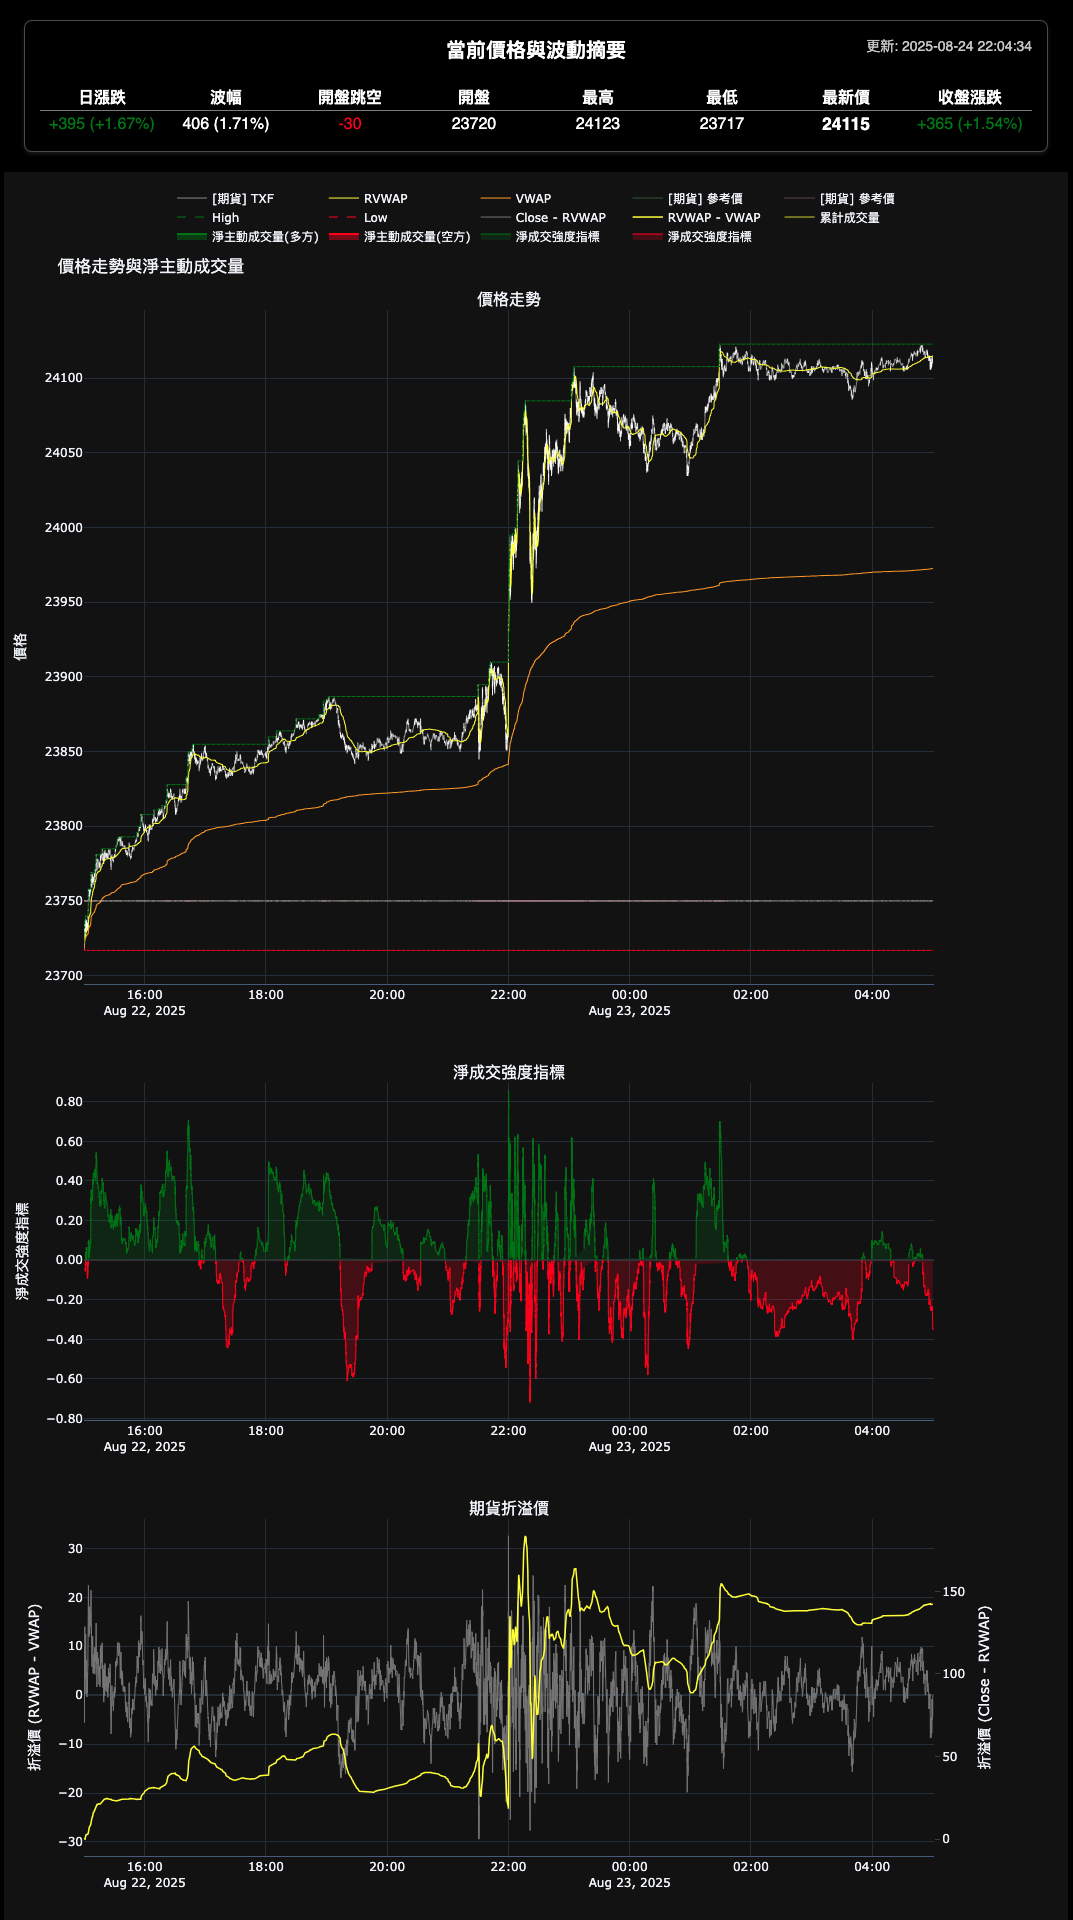
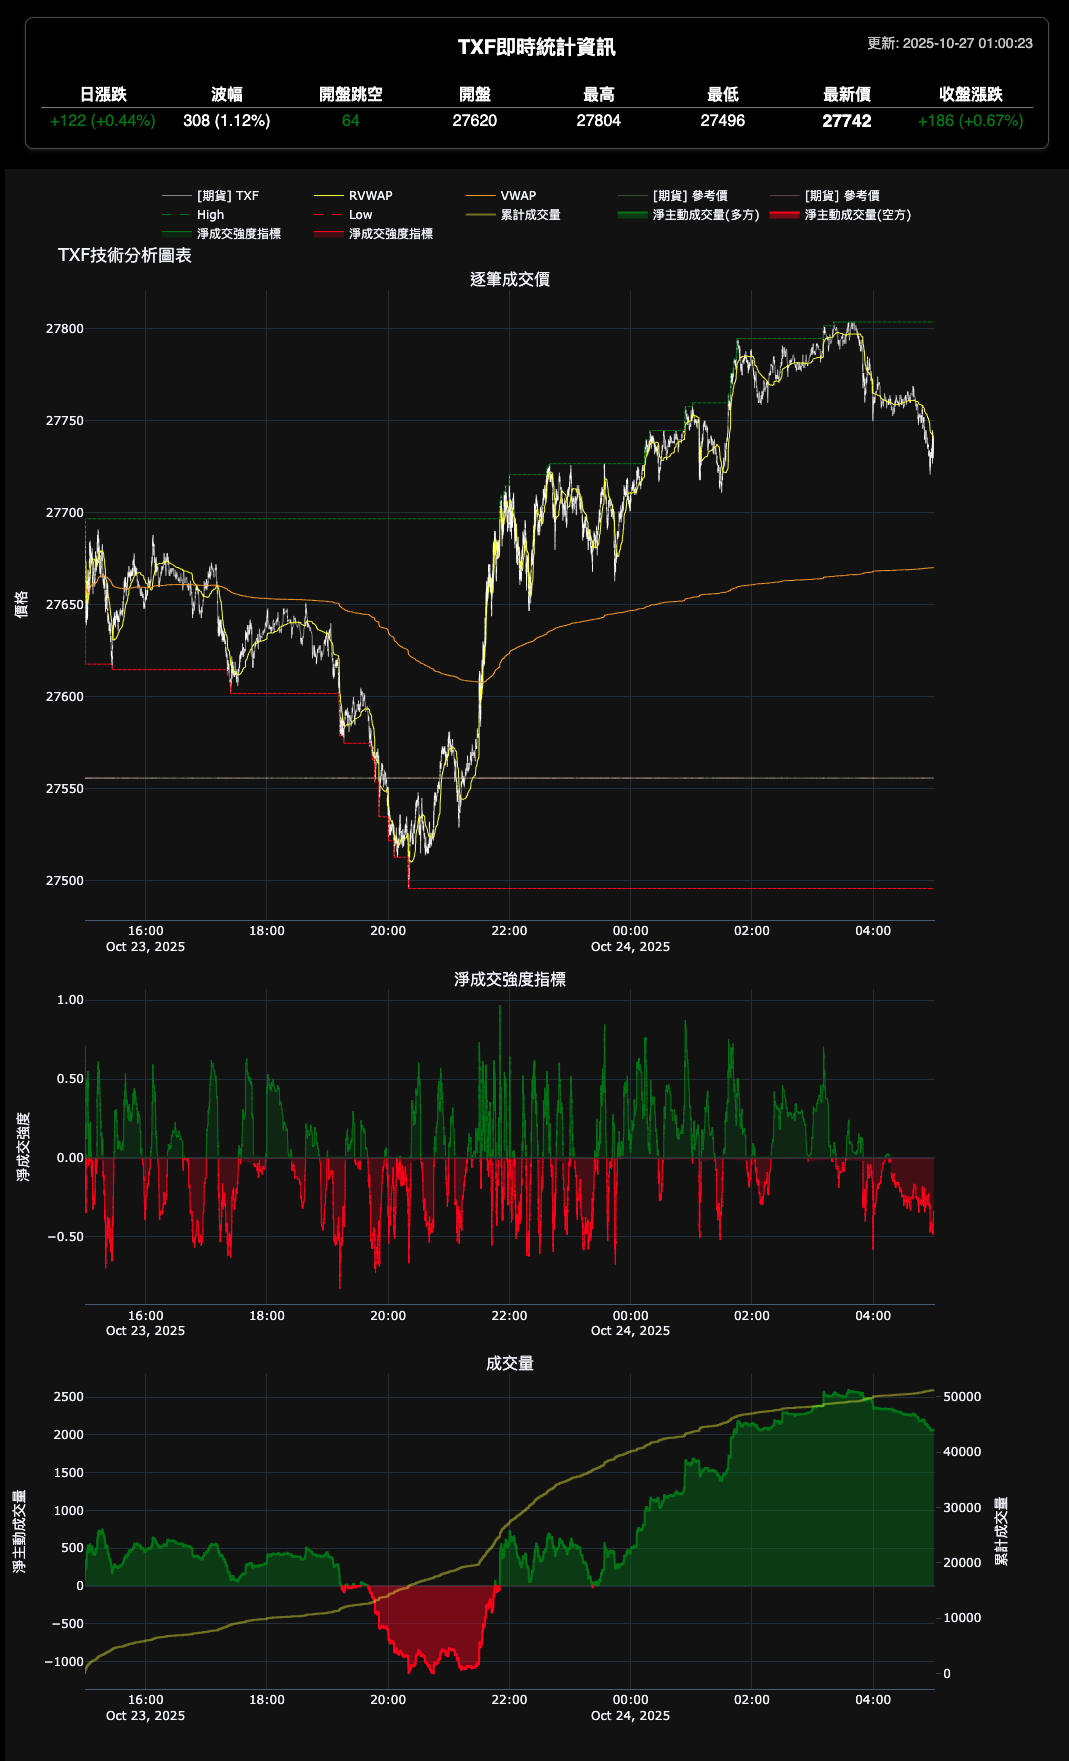
Update README.md to enhance feature descriptions and add new visualizations; include new image for improved documentation.

diff --git a/README.md b/README.md
@@ -13,11 +13,11 @@
 ## ✨ 主要功能
 
 -   **雙模式數據源**：支援從 `Kafka` 即時消費 tick 數據，或透過 `Shioaji API` 抓取歷史 tick 數據進行分析。
--   **多維度指標計算**：即時計算 **VWAP** (成交量加權平均價)、**盤中高低價**、**買賣盤成交量變化**、**淨主動買賣成交量**以及**期現貨價差**等關鍵指標。
+-   **多維度指標計算**：即時計算 **VWAP**(成交量加權平均價)、**盤中高低價**、**淨成交強度指標**、**淨主動成交量**等技術指標。
 -   **進階圖表視覺化**：
-    -   **主分析圖**：整合價格、價差、成交量變化、凈主動買賣成交量差於一體的四合一互動式圖表。
-    -   **量價K棒圖**：以固定成交口數生成「等量K棒 (Volume Bars)」，並在K棒上標示買賣盤的成交量差 (Volume Delta)。
-    -   **日線K棒圖**：將 tick 數據轉成有日夜盤之分的日線圖。
+    -   **主分析圖**：整合逐筆成交價格及其相關技術分析圖表。
+    -   **量價K棒圖**：不同聚合週期的K線圖(1-min, 5-min, 10-min)。
+    -   **日線K棒圖**：日夜盤之分的日線圖。
 -   **自動化報告生成**：將所有圖表與統計數據整合為單一的 `HTML` 報告，並支援在即時模式下**自動定時更新**頁面。
 -   **高效率終端監控**：在終端機中提供一個乾淨、會原地更新的狀態面板，方便監控程式運行狀態。
 
@@ -27,6 +27,7 @@
 ![1](docs/1.png)
 ![2](docs/2.png)
 ![3](docs/3.png)
+![4](docs/4.png)
 
 ---
 
